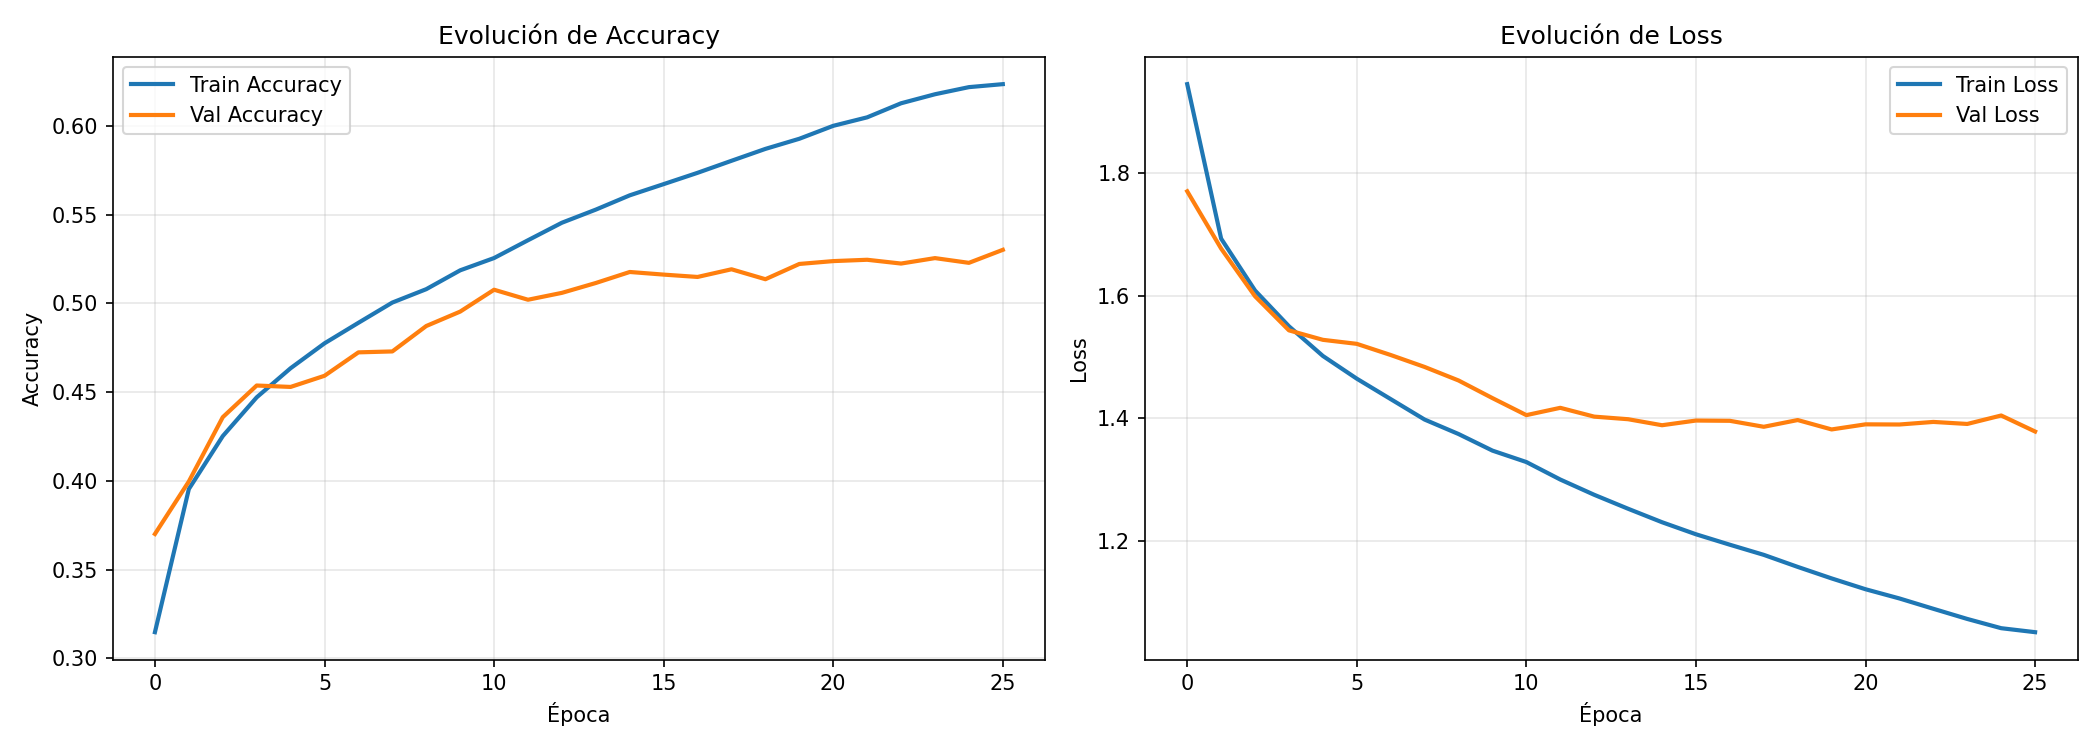
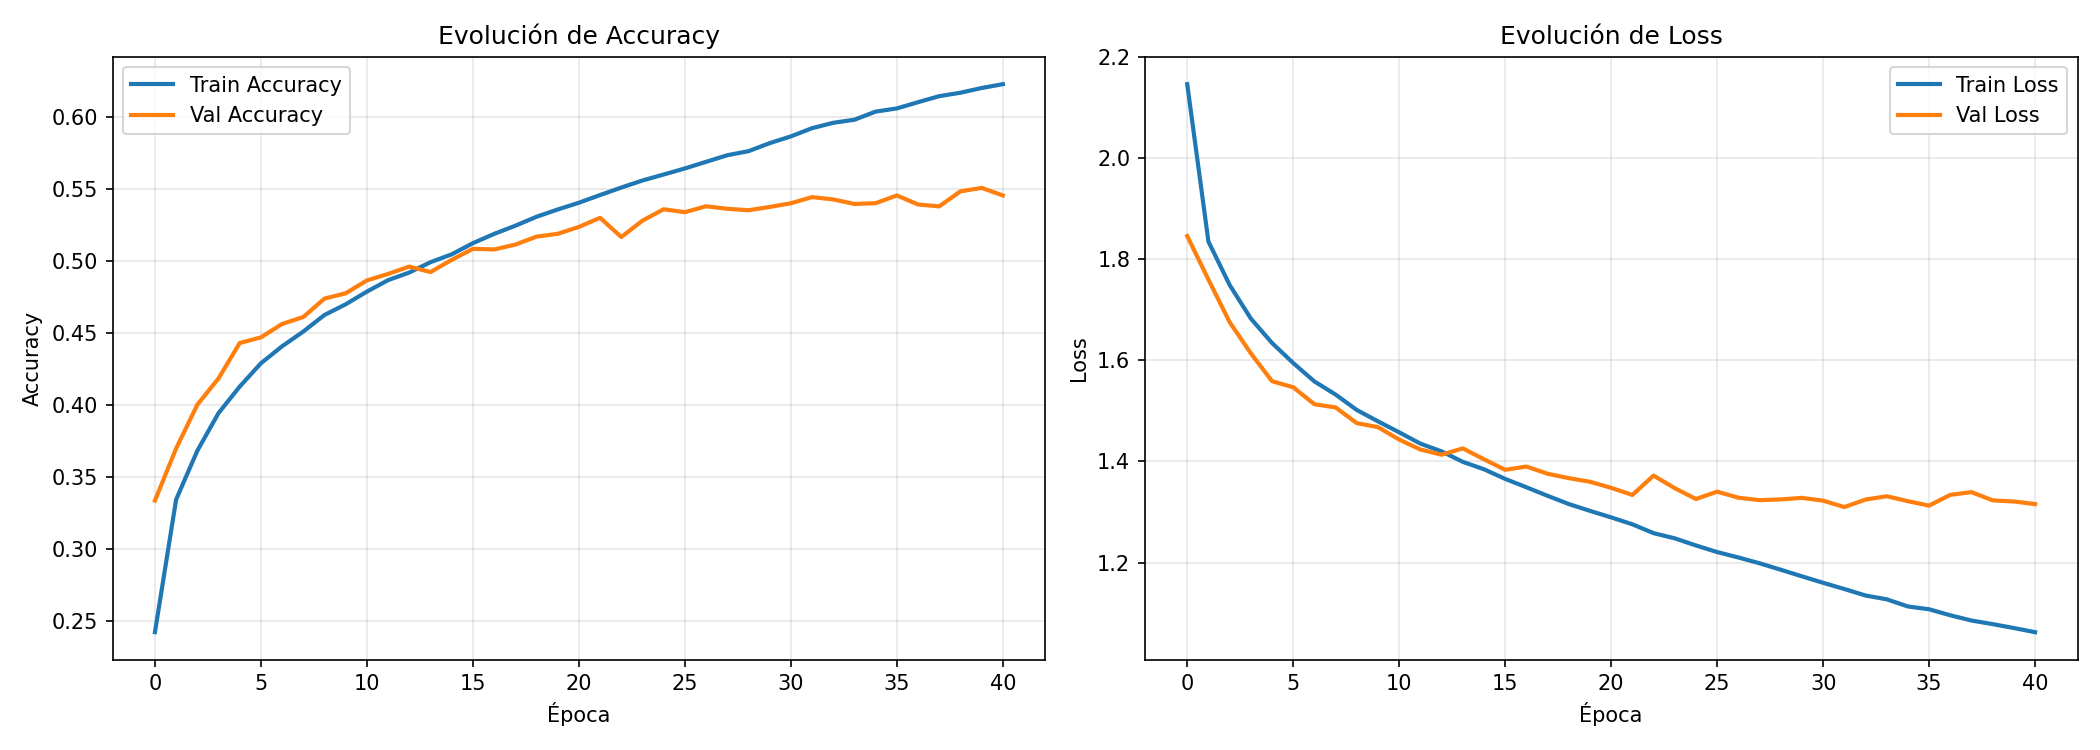
hasta cnn1, mlp7 optimizado 0.5424 accuraccy

diff --git a/yisus/Jesús_Ballesteros_Navarro.py b/yisus/Jesús_Ballesteros_Navarro.py
@@ -8,6 +8,8 @@ import numpy as np
 import matplotlib.pyplot as plt
 import keras
 from keras import layers, models, callbacks
+from keras import regularizers
+from keras.callbacks import ReduceLROnPlateau 
 import time
 ###################################################
 #           Funciones auxiliares
@@ -449,7 +451,7 @@ def entrenamiento_arquitectura(X_train, Y_train, X_test, Y_test, arquitectura, a
     for rep in range(num_repeticiones):
         # Crear modelo con arquitectura parametrizada
         model = keras.Sequential()
-        
+ 
         # Primera capa
         model.add(layers.Dense(arquitectura[0], activation=activation, input_shape=(3072,)))
         
@@ -460,6 +462,8 @@ def entrenamiento_arquitectura(X_train, Y_train, X_test, Y_test, arquitectura, a
         # Capa de salida
         model.add(layers.Dense(10, activation="softmax"))
         
+        model.summary()
+
         model.compile(
             optimizer="adam",
             loss="categorical_crossentropy",
@@ -687,7 +691,7 @@ def mlp6():
     
     mejor_patience = 5         
     mejor_batch_size = 128     
-    mejor_activation = 'relu'   
+    mejor_activation = 'elu'   
     
     resultados = []
     
@@ -716,8 +720,28 @@ def mlp7():
     mejor_patience = 5              
     mejor_batch_size = 128          
     mejor_activation = 'elu'        
-    mejor_arquitectura = [256, 128] 
- 
+    
+    # Arquitecturasa probar :
+    #mejor_arquitectura = [256, 128, 64]  # Total: 448 - Mejor mlp6
+    
+    # 4 capas
+    mejor_arquitectura = [512, 256, 128, 64]        # Total: 960 neuronas - Piramidal 
+    #mejor_arquitectura = [384, 256, 128, 64]        # Total: 832 neuronas - Balanceada
+    #mejor_arquitectura = [400, 300, 200, 100]       # Total: 1000 neuronas - Uso máximo
+    #mejor_arquitectura = [256, 256, 256, 128]       # Total: 896 neuronas - Capas uniformes
+    
+    # 5-6 capas
+    #mejor_arquitectura = [256, 192, 128, 96, 64]    # Total: 736 neuronas - Embudo suave (Disminución pequeña de neuronas por capa)
+    #mejor_arquitectura = [384, 256, 128, 64, 32]    # Total: 864 neuronas - Embudo agresivo (Disminución grande de neuronas por capas)
+    #mejor_arquitectura = [200, 180, 160, 140, 120, 100]  # Total: 900 neuronas - 6 capas graduales
+    
+    # --- ARQUITECTURAS EXPERIMENTALES ---
+    #mejor_arquitectura = [600, 300, 100]            # Total: 1000 - Piramidal agresiva
+    #mejor_arquitectura = [128, 256, 256, 256]              
+    
+    dropout_rate = 0.1        # % de neuronas a apagar 
+    l2_lambda = 0.000001          
+     
     X_train, Y_train, X_test, Y_test = cargar_y_preprocesar_cifar10()
 
     num_repeticiones = 5
@@ -732,16 +756,33 @@ def mlp7():
         model = keras.Sequential()
         
         # Primera capa
-        model.add(layers.Dense(mejor_arquitectura[0], activation=mejor_activation, input_shape=(3072,)))
-        
+        model.add(layers.Dense(
+            mejor_arquitectura[0], 
+            activation=mejor_activation,
+            kernel_initializer='he_normal',
+            kernel_regularizer=regularizers.l2(l2_lambda),
+            input_shape=(3072,)
+        ))
+
+        model.add(layers.Dropout(0.1))
         # Capas ocultas adicionales
-        for n in mejor_arquitectura[1:]:
-            model.add(layers.Dense(n, activation=mejor_activation))
+        for i, n in enumerate(mejor_arquitectura[1:]):
+            model.add(layers.Dense(
+                n, 
+                activation=mejor_activation,
+                kernel_initializer='he_normal',
+                kernel_regularizer=regularizers.l2(l2_lambda)
+            ))
+            
+            # Reducir dropout en capas finales (0.3 → 0.21)
+            rate = dropout_rate if i < len(mejor_arquitectura) - 2 else dropout_rate * 0.7
+            model.add(layers.Dropout(rate))
         
         # Capa de salida
         model.add(layers.Dense(10, activation="softmax"))
         
-        model.summary()
+        if rep == 0:
+            model.summary()
 
         model.compile(
             optimizer="adam",
@@ -756,13 +797,21 @@ def mlp7():
             verbose=1
         )
         
+        reduce_lr = callbacks.ReduceLROnPlateau(
+            monitor='val_loss',
+            factor=0.5,
+            patience=5,
+            min_lr=1e-6,
+            verbose=1
+        )
+
         inicio = time.time()
         history = model.fit(
             X_train, Y_train,
             batch_size=mejor_batch_size,
             epochs=100,
             validation_split=0.1,
-            callbacks=[early_stop],
+            callbacks=[early_stop, reduce_lr],
             verbose=1
         )
         tiempo = time.time() - inicio
@@ -818,6 +867,94 @@ def mlp7():
     Y_pred = model.predict(X_test, verbose=0)
     plot_confusion_matrix(Y_test, Y_pred)
 
+################################################################
+#                            CNN
+################################################################
+def cnn1():
+    (X_train, Y_train), (X_test, Y_test) = keras.datasets.cifar10.load_data()
+
+    X_train = X_train.astype("float32") / 255.0
+    X_test = X_test.astype("float32") / 255.0
+    
+    Y_train = keras.utils.to_categorical(Y_train, 10)
+    Y_test = keras.utils.to_categorical(Y_test, 10)
+
+    num_repeticiones = 5
+    test_accs = []
+    test_losses = []
+    epochs_trained = []
+    tiempos = []
+    all_histories = []
+    
+    for rep in range(num_repeticiones):
+        model = keras.Sequential([
+            layers.Input(shape=(32, 32, 3)),
+            
+            # Bloque 1
+            layers.Conv2D(16, (3, 3), activation='relu', kernel_initializer='he_normal', padding='same'),
+            layers.MaxPooling2D((2, 2)),
+            
+            # Bloque 2
+            layers.Conv2D(32, (3, 3), activation='relu',kernel_initializer='he_normal', padding='same'),
+            layers.MaxPooling2D((2, 2)),
+            
+            # Flatten + Dense
+            layers.Flatten(),
+            layers.Dense(100, activation='relu', kernel_initializer='he_normal'),
+            layers.Dense(10, activation='softmax')
+        ])
+        
+        if rep == 0:
+            model.summary()
+        
+        model.compile(
+            optimizer='adam',
+            loss='categorical_crossentropy',
+            metrics=['accuracy']
+        )
+        
+        early_stop = callbacks.EarlyStopping(
+            monitor='val_loss',
+            patience=10,
+            restore_best_weights=True,
+            verbose=1
+        )
+        
+        inicio = time.time()
+        history = model.fit(
+            X_train, Y_train,
+            batch_size=128,
+            epochs=100,
+            validation_split=0.1,
+            callbacks=[early_stop],
+            verbose=1
+        )
+        tiempo = time.time() - inicio
+        
+        test_loss, test_acc = model.evaluate(X_test, Y_test, verbose=0)
+        test_accs.append(test_acc)
+        test_losses.append(test_loss)
+        epochs_trained.append(len(history.history['loss']))
+        tiempos.append(tiempo)
+        all_histories.append(history.history)
+
+    avg_test_acc = np.mean(test_accs)
+    std_test_acc = np.std(test_accs)
+    avg_test_loss = np.mean(test_losses)
+    avg_epochs = np.mean(epochs_trained)
+    avg_tiempo = np.mean(tiempos)
+    avg_history = promediar_histories(all_histories)
+    
+    plot_history(avg_history)
+    Y_pred = model.predict(X_test, verbose=0)
+    plot_confusion_matrix(Y_test, Y_pred)
+    
+    return model, avg_history
+def cnn2():
+
+def cnn3():
+
+
 #main
 if __name__ == "__main__":
     cargar_y_preprocesar_cifar10()
@@ -829,6 +966,8 @@ if __name__ == "__main__":
     print("5: MLP5")
     print("6: MLP6")
     print("7: MLP7")
+    print("8: CNN1")
+    print("9: CNN2")
     
     eleccion = input("Opción:")
     match eleccion:
@@ -846,5 +985,11 @@ if __name__ == "__main__":
             mlp6()
         case '7':
             mlp7()
+        case '8':
+            cnn1()
+        case '9':
+            cnn2()
+        case '10':
+            cnn3()
         case _:
             print(f"Opción '{eleccion}' no reconocida.")
